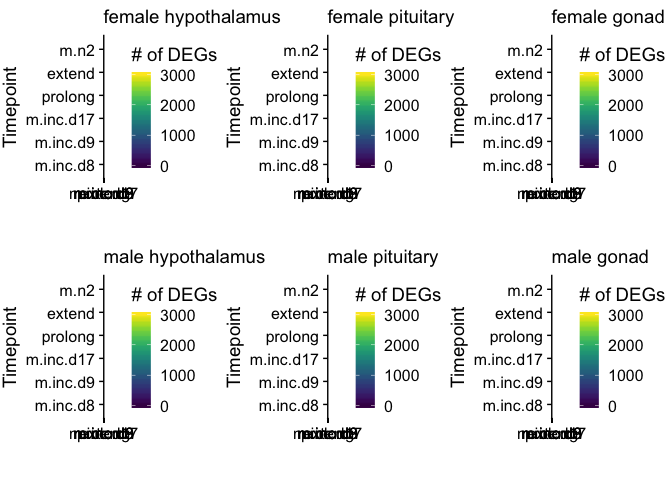
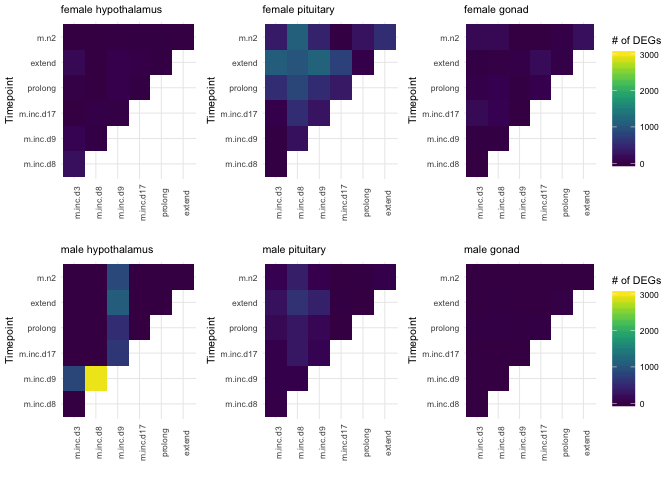
better printout

diff --git a/analysis/05_DESeq2_manipulate.md b/analysis/05_DESeq2_manipulate.md
@@ -287,19 +287,15 @@ Calculate and plot total DEGs
     e <- plottotalDEGs(dds.male_pituitary, "male pituitary")
     f <- plottotalDEGs(dds.male_gondad, "male gonad")
 
-    plot_grid(a,b,c,d,e,f, nrow = 2) 
-
-![](../figures/manipulation/totalDEGs-1.png)
-
-    plot_grid(a + theme_minimal(base_size = 8) + theme(legend.position = "none", axis.text.x = element_text(angle = 90)),
-              b + theme_minimal(base_size = 8) + theme(legend.position = "none", axis.text.x = element_text(angle = 90)),
-              c + theme_minimal(base_size = 8) + theme(axis.text.x = element_text(angle = 90)),
-              d + theme_minimal(base_size = 8) + theme(legend.position = "none",axis.text.x = element_text(angle = 90)),
-              e + theme_minimal(base_size = 8) + theme(legend.position = "none",axis.text.x = element_text(angle = 90)),
-              f + theme_minimal(base_size = 8) + theme(axis.text.x = element_text(angle = 90)),
+    plot_grid(a + theme(legend.position = "none"),
+              b + theme(legend.position = "none"),
+              c,
+              d + theme(legend.position = "none"),
+              e + theme(legend.position = "none"),
+              f,
               nrow = 2, rel_widths = c(0.3, 0.3, 0.4)) 
 
-![](../figures/manipulation/totalDEGs2-1.png)
+![](../figures/manipulation/totalDEGs-1.png)
 
 Calculate and plot principal components
 ---------------------------------------
